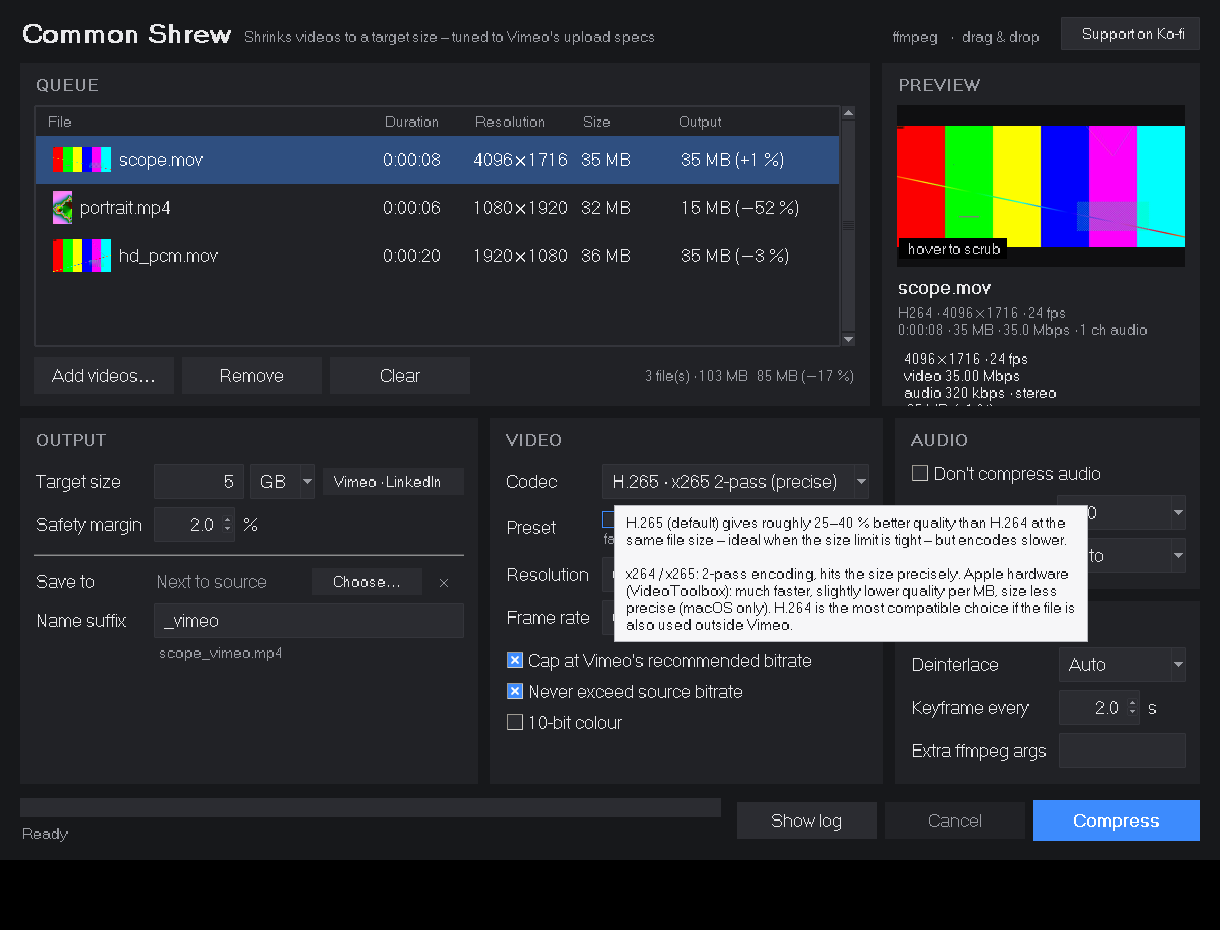
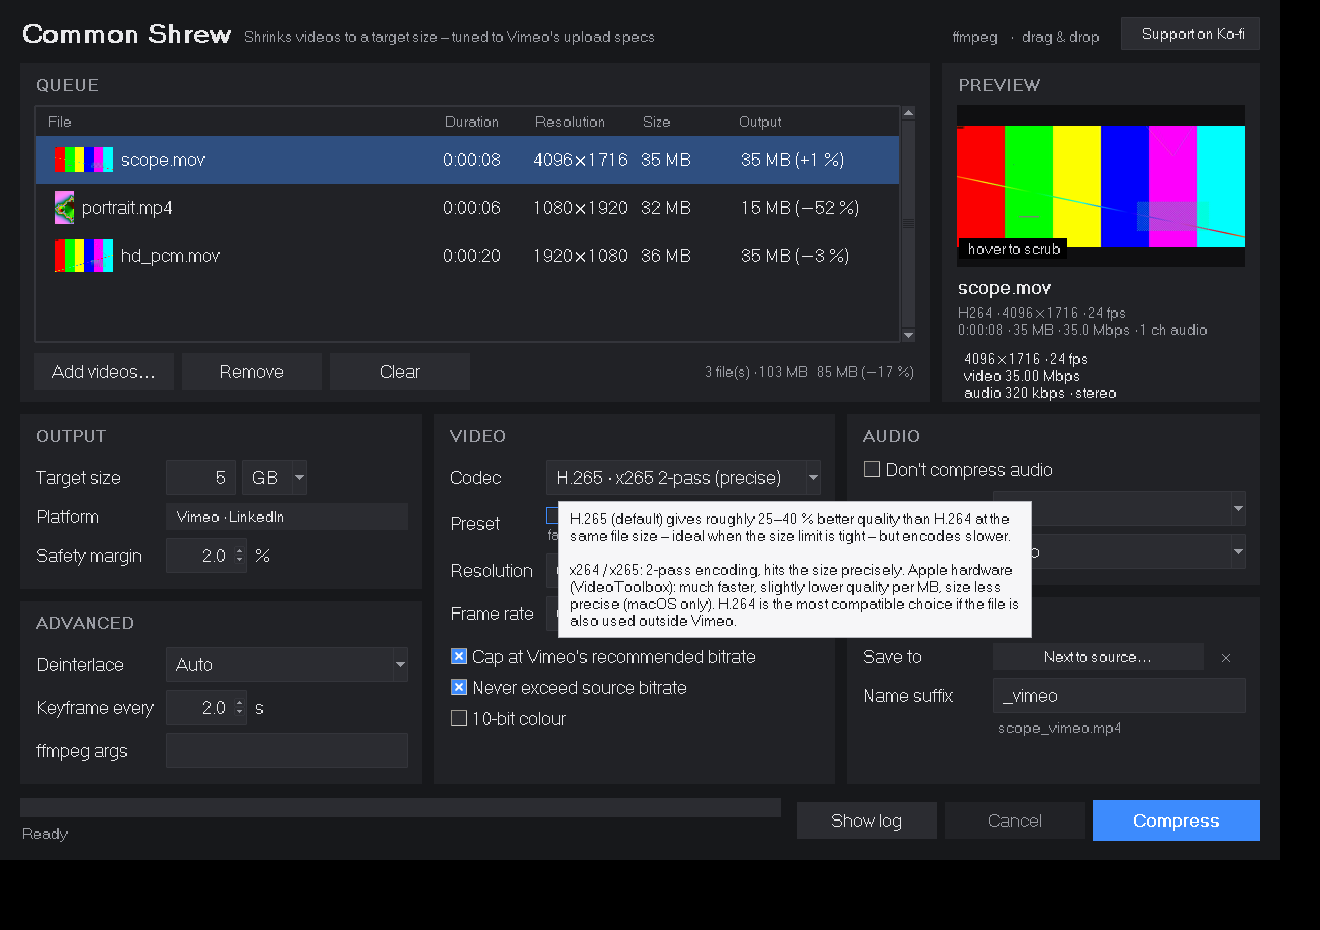
Rearrange settings: Output+Advanced left, Audio+Save right
- Save to / name suffix move into their own "Save" panel under Audio,
  Advanced moves under Output
- Equal-width columns, shared label width, platform preset on its own row
- Output folder is a single button showing the current target
- Default window 1320 px wide

Claude-Session: https://claude.ai/code/session_01HG49A6z8YFSNziWa4JF35k

diff --git a/common_shrew.py b/common_shrew.py
@@ -780,8 +780,8 @@ TIPS = {
            "HDR sources (PQ / HLG) always use 10-bit.",
     "suffix": "Text appended to the original file name. The output is always MP4 "
               "(or MOV when original PCM audio is kept).",
-    "outdir": "Where the compressed files are saved. By default next to each source file. "
-              "'Choose…' picks one folder for all files, '×' resets to next-to-source.",
+    "outdir": "Where the compressed files are saved – by default next to each source file. "
+              "Click to pick one folder for all files; '×' resets to next-to-source.",
     "acopy": "Keep the original audio track bit-for-bit instead of re-encoding it to AAC. "
              "Best quality, but it uses more of the size budget (uncompressed PCM ≈ 2.3 Mbps "
              "for 48 kHz / 24-bit stereo) – the video bitrate is reduced accordingly.\n\n"
@@ -792,7 +792,7 @@ TIPS = {
              "Speeds up both passes – especially for HEVC and ProRes sources – and leaves more "
              "CPU for the encoder. The image is identical; unsupported formats fall back to "
              "software automatically, and a failed run is retried without it. macOS only.",
-    "extra": "Additional ffmpeg output options, e.g.  -tune film  or  -metadata title=\"My Film\".\n"
+    "extra": "Extra ffmpeg output options, e.g.  -tune film  or  -metadata title=\"My Film\".\n"
              "For experts – applied to the final pass.",
 }
 
@@ -876,7 +876,8 @@ def run_gui():
         dnd = False
 
     root.title(APP_NAME)
-    root.geometry(f"1220x{min(930, root.winfo_screenheight() - 70)}")
+    root.geometry(f"{min(1320, root.winfo_screenwidth() - 40)}x"
+                  f"{min(930, root.winfo_screenheight() - 70)}")
     root.minsize(980, 720)
     root.configure(bg=C["bg"])
 
@@ -1204,9 +1205,8 @@ def run_gui():
     # --- settings
     sets = ttk.Frame(outer)
     sets.grid(row=2, column=0, sticky="we", pady=(12, 0))
-    sets.columnconfigure(0, weight=5, minsize=400)
-    sets.columnconfigure(1, weight=4)
-    sets.columnconfigure(2, weight=4)
+    for i in range(3):
+        sets.columnconfigure(i, weight=1, uniform="sets")
 
     def field(parent, r, label, widget, tip, c=0):
         lab = ttk.Label(parent, text=label, style="Panel.TLabel")
@@ -1220,13 +1220,31 @@ def run_gui():
         return ttk.Combobox(parent, textvariable=var, values=values, width=width,
                             state="readonly" if ro else "normal", font=F["base"])
 
-    oc = card(sets, "Output")
-    oc.grid(row=0, column=0, sticky="nsew", padx=(0, 12))
-    oc.columnconfigure(1, weight=1)
+    # left column: Output (size) above Advanced · right column: Audio above Save
+    _lf = tkfont.Font(font=F["base"])
+    lab_w = max(_lf.measure(t) for t in ("Target size", "Platform", "Safety margin", "Deinterlace",
+                                          "Keyframe every", "ffmpeg args", "Bitrate (kbps)",
+                                          "Channels", "Save to", "Name suffix")) + 14
+    lcol = ttk.Frame(sets)
+    lcol.grid(row=0, column=0, sticky="nsew", padx=(0, 12))
+    rcol = ttk.Frame(sets)
+    rcol.grid(row=0, column=2, sticky="nsew")
+    for col in (lcol, rcol):
+        col.columnconfigure(0, weight=1)
+        col.rowconfigure(1, weight=1)
+
+    def panel(parent, title, row):
+        f = card(parent, title)
+        f.grid(row=row, column=0, sticky="nsew", pady=(0, 12) if row == 0 else 0)
+        f.columnconfigure(0, minsize=lab_w)
+        f.columnconfigure(1, weight=1)
+        return f
+
+    oc = panel(lcol, "Output", 0)
 
     # target size: [ 5 ] [GB ▾] [Presets ▾]
     tf = ttk.Frame(oc, style="Panel.TFrame")
-    te = ttk.Entry(tf, textvariable=V["target"], width=7, font=F["base"], justify="right")
+    te = ttk.Entry(tf, textvariable=V["target"], width=5, font=F["base"], justify="right")
     te.grid(row=0, column=0, sticky="w")
     uc = combo(tf, V["unit"], ["GB", "MB"], 3)
     uc.grid(row=0, column=1, sticky="w", padx=(6, 0))
@@ -1241,8 +1259,7 @@ def run_gui():
         V["unit"].set(unit)
     for label in SIZE_PRESETS:
         pm.add_command(label=label, command=lambda l=label: apply_preset(l))
-    mb = ttk.Menubutton(tf, text="", menu=pm, style="Small.TMenubutton", width=17)
-    mb.grid(row=0, column=3, sticky="e", padx=(8, 0))
+    mb = ttk.Menubutton(oc, text="", menu=pm, style="Small.TMenubutton")
 
     def update_preset_btn(*_):
         key = f'{V["target"].get().strip().replace(",", ".")} {V["unit"].get()}'
@@ -1255,46 +1272,45 @@ def run_gui():
     V["target"].trace_add("write", update_preset_btn)
     V["unit"].trace_add("write", update_preset_btn)
     update_preset_btn()
-    Tooltip(mb, TIPS["target"])
     field(oc, 1, "Target size", tf, "target")
+    field(oc, 2, "Platform", mb, "target")
 
     # safety margin: [2.0] %
     sfm = ttk.Frame(oc, style="Panel.TFrame")
     ttk.Spinbox(sfm, from_=0, to=20, increment=0.5, textvariable=V["safety"], width=5,
                 font=F["base"], justify="right").pack(side="left")
     ttk.Label(sfm, text="%", style="Panel.TLabel").pack(side="left", padx=(6, 0))
-    field(oc, 2, "Safety margin", sfm, "safety")
-
-    ttk.Separator(oc).grid(row=3, column=0, columnspan=2, sticky="we", pady=8)
+    field(oc, 3, "Safety margin", sfm, "safety")
 
     # save to: [Next to source file]  [Choose…] [×]
-    of = ttk.Frame(oc, style="Panel.TFrame")
+    sv = panel(rcol, "Save", 1)
+    of = ttk.Frame(sv, style="Panel.TFrame")
     of.columnconfigure(0, weight=1)
-    dir_lbl = ttk.Label(of, text="", style="Panel.TLabel", width=12, anchor="w")
+    # one button that shows the current target and opens the folder picker
+    dir_lbl = ttk.Button(of, text="", style="Small.TButton", command=lambda: V["outdir"].set(
+        filedialog.askdirectory() or V["outdir"].get()))
     dir_lbl.grid(row=0, column=0, sticky="we")
     dir_tip = Tooltip(dir_lbl, TIPS["outdir"])
-    ttk.Button(of, text="Choose…", style="Small.TButton", command=lambda: V["outdir"].set(
-        filedialog.askdirectory() or V["outdir"].get())).grid(row=0, column=1, padx=(6, 0))
     reset_btn = ttk.Button(of, text="×", width=2, style="Small.TButton",
                            command=lambda: V["outdir"].set(""))
     reset_btn.grid(row=0, column=2, padx=(4, 0))
-    field(oc, 4, "Save to", of, "outdir")
+    field(sv, 1, "Save to", of, "outdir")
 
     # file name: [_vimeo]  + example
-    field(oc, 5, "Name suffix", ttk.Entry(oc, textvariable=V["suffix"], width=10,
+    field(sv, 2, "Name suffix", ttk.Entry(sv, textvariable=V["suffix"], width=10,
                                           font=F["base"]), "suffix")
-    name_ex = ttk.Label(oc, text="", style="Muted.TLabel")
-    name_ex.grid(row=6, column=1, sticky="w", pady=(0, 2))
+    name_ex = ttk.Label(sv, text="", style="Muted.TLabel")
+    name_ex.grid(row=3, column=1, sticky="w", pady=(0, 2))
 
     def update_output_labels(*_):
         d = V["outdir"].get()
         if d:
-            dir_lbl.config(text="📁 " + (os.path.basename(d.rstrip("/")) or d),
-                           foreground=C["fg"])
+            name = os.path.basename(d.rstrip("/\\")) or d
+            dir_lbl.config(text="📁 " + (name if len(name) <= 16 else name[:15] + "…"))
             dir_tip.text = d
             reset_btn.state(["!disabled"])
         else:
-            dir_lbl.config(text="Next to source", foreground=C["muted"])
+            dir_lbl.config(text="Next to source…")
             dir_tip.text = TIPS["outdir"]
             reset_btn.state(["disabled"])
         ext = ".mp4"
@@ -1361,16 +1377,7 @@ def run_gui():
         cb.grid(row=r, column=0, sticky="w", pady=2)
         Tooltip(cb, TIPS[key])
 
-    # right column: two separate panels stacked – Audio on top, Advanced below
-    rcol = ttk.Frame(sets)
-    rcol.grid(row=0, column=2, sticky="nsew")
-    rcol.columnconfigure(0, weight=1)
-    rcol.rowconfigure(1, weight=1)
-    lab_w = tkfont.Font(font=F["base"]).measure("Extra ffmpeg args") + 12  # aligns both panels
-    ac = card(rcol, "Audio")
-    ac.grid(row=0, column=0, sticky="nsew", pady=(0, 12))
-    ac.columnconfigure(0, minsize=lab_w)
-    ac.columnconfigure(1, weight=1)
+    ac = panel(rcol, "Audio", 0)
     acb = ttk.Checkbutton(ac, text="Don't compress audio", variable=V["acopy"])
     acb.grid(row=1, column=0, columnspan=2, sticky="w", pady=(0, 4))
     Tooltip(acb, TIPS["acopy"])
@@ -1389,17 +1396,14 @@ def run_gui():
         update_output_labels()
     V["acopy"].trace_add("write", audio_state)
 
-    adv = card(rcol, "Advanced")
-    adv.grid(row=1, column=0, sticky="nsew")
-    adv.columnconfigure(0, minsize=lab_w)
-    adv.columnconfigure(1, weight=1)
+    adv = panel(lcol, "Advanced", 1)
     field(adv, 1, "Deinterlace", combo(adv, V["deint"], ["Auto", "On", "Off"]), "deint")
     gf = ttk.Frame(adv, style="Panel.TFrame")
     ttk.Spinbox(gf, from_=0.5, to=10, increment=0.5, textvariable=V["gop"], width=5,
                 font=F["base"], justify="right").pack(side="left")
     ttk.Label(gf, text="s", style="Panel.TLabel").pack(side="left", padx=(6, 0))
     field(adv, 2, "Keyframe every", gf, "gop")
-    field(adv, 3, "Extra ffmpeg args", ttk.Entry(adv, textvariable=V["extra"], width=12,
+    field(adv, 3, "ffmpeg args", ttk.Entry(adv, textvariable=V["extra"], width=12,
           font=F["base"]), "extra")
 
     # --- progress, log, actions

diff --git a/CLAUDE.md b/CLAUDE.md
@@ -26,7 +26,7 @@ README and commit messages are **English**.
 | `tools/make_samples.sh` | Generates synthetic test clips (PCM audio, 120 fps without audio, scope, portrait) into `samples/` |
 | `tools/gui_screenshot.py` | Headless GUI smoke test plus screenshot |
 | `docs/screenshot.png` | Screenshot used in the README |
-| `docs/header.jpg` | README header banner, 1280×400 rendered at 2× (from `docs/banner/header.html`) |
+| `docs/header.jpg` | README header banner, 1280×400 rendered at 2× (from `docs/banner/header.html`). Both banners use the light "book page" style: paper `#fefeca`, black text and rust accent. Keep the project's banners in this style; the app itself stays dark |
 | `docs/social-preview.png` | GitHub social preview banner, 1280×640. Built from `docs/banner/` (HTML + Playwright); the shrew engraving is public domain (EB9, 1886) and its credit must stay on the banner and in the README |
 
 Git-ignored: `.venv/`, `samples/`, video files, and the launcher flags `.use_system_tk` and
@@ -91,9 +91,12 @@ Git-ignored: `.venv/`, `samples/`, video files, and the launcher flags `.use_sys
      `overrideredirect`, because the latter rendered black there.
    - Drag & drop is optional via `tkinterdnd2`; the app falls back to plain `tk.Tk()`.
    - Settings layout:
-     - Output, Video, then a right column with two separate stacked panels (Audio on top,
-       Advanced below).
-     - Both panels share a fixed label-column width (`lab_w`), so their fields line up.
+     - Three equal columns (`uniform`): left Output above Advanced, middle Video, right
+       Audio above Save.
+     - All panels share the label-column width `lab_w`, so their fields line up.
+     - The platform preset is its own full-width row ("Platform"), because next to the
+       target size it got clipped.
+     - The default window is 1320 px wide.
    - The x264/x265 preset is a snapping `ttk.Scale` (ultrafast … veryslow) bound to
      `V["preset"]`. It is disabled for VideoToolbox codecs.
 7. **CLI:** `python3 common_shrew.py --cli …`, with `--dry-run` to print the plan and the
@@ -113,7 +116,7 @@ python3 common_shrew.py --cli samples/pcm24.mov --size 3MB --copy-audio  # expec
 
 # GUI
 .venv/bin/python common_shrew.py samples/*
-xvfb-run -a -s "-screen 0 1220x930x24" .venv/bin/python tools/gui_screenshot.py /tmp/s.png samples/*
+xvfb-run -a -s "-screen 0 1320x930x24" .venv/bin/python tools/gui_screenshot.py /tmp/s.png samples/*
 ```
 - Check the result sizes stay ≤ target. Two-pass x264/x265 should land within the 2 %
   margin.
